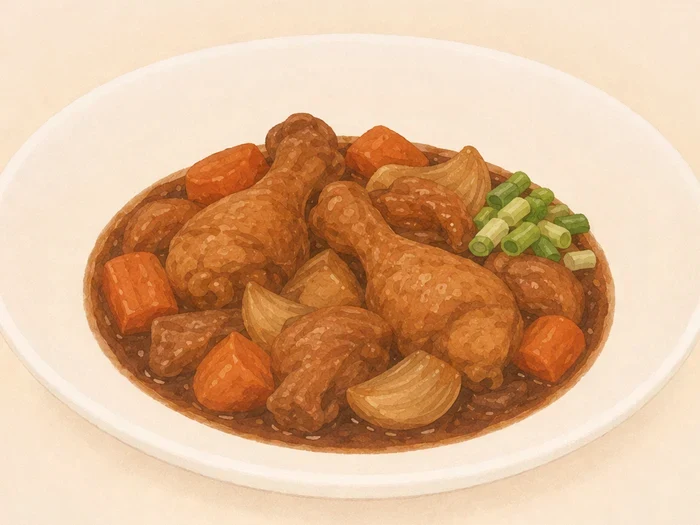
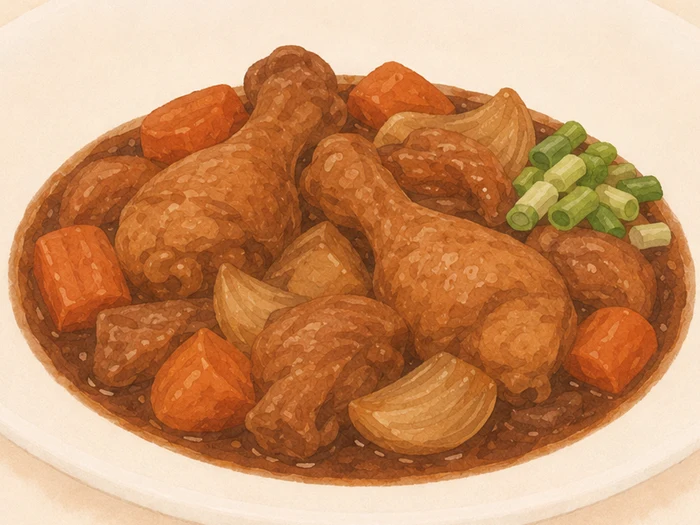
紅燒雞、蔥油餅改用凹陷圈取景；銅盤烤肉改回整體外框
阿嬤紅燒雞    圈寬 76%→98% · 上下差 7→1   凹陷圈
  台式蔥油餅    圈寬 81%→98% · 上下差 3→1   凹陷圈
  不用銅盤的銅盤烤肉  上距 1%→9% · 下距 15%→8%    整體外框 fill 0.96

📌 銅盤烤肉不套凹陷圈：那盤肉堆成一座山、疊出圈外，套下去山頂會被切
（實測上距只剩 1%）。跟慢火厚煎蔬菜蛋餅同一類 —— 判準是「食物有沒有盛在圈裡」。
使用者：「銅盤烤肉因為很巨大一盤，反而不用 zoom-in 這麼多」。

⚠ r20 蔥油餅原本工作區有另一個 session 未提交的重切版，這次一併換成凹陷圈版。

ASSETS 64 → 65

diff --git a/index.html b/index.html
@@ -783,7 +783,7 @@ ol.steps li::before {
    ══════════════════════════════════════════════ */
 
 /* 素材版本。換過圖就 bump 一次，否則瀏覽器會一直用舊的快取 */
-const ASSETS = '64';
+const ASSETS = '65';
 const asset = p => p + '?v=' + ASSETS;
 
 const $ = (s, el = document) => el.querySelector(s);
